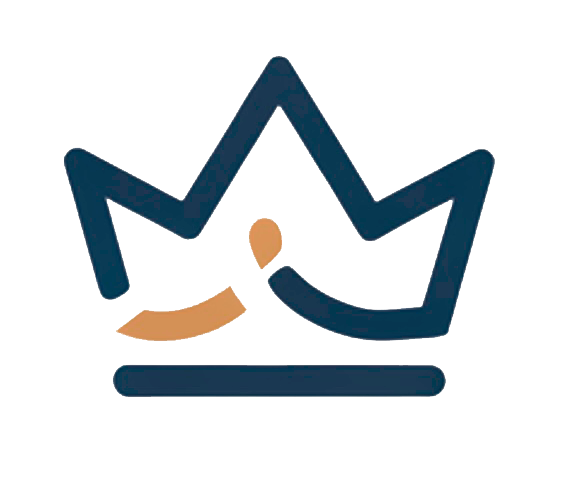
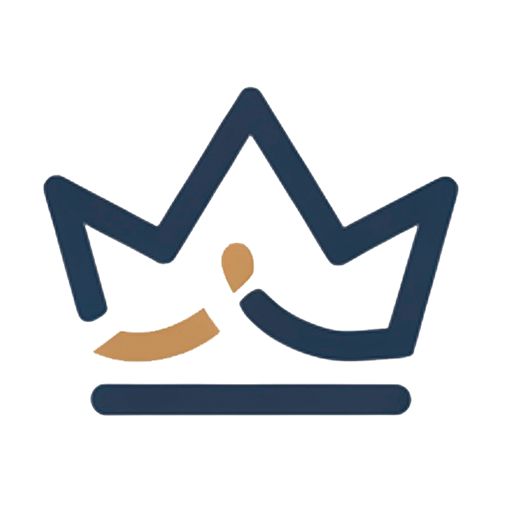
feat: actualizar isotipo cuadrado y configurar iconos iOS

diff --git a/src/app/layout.tsx b/src/app/layout.tsx
@@ -22,8 +22,15 @@ export const metadata: Metadata = {
     title: "Reyes Finance",
   },
   icons: {
-    icon: "/isotipo.png",
-    apple: "/isotipo.png",
+    icon: [
+      { url: "/isotipo.png", sizes: "192x192", type: "image/png" },
+      { url: "/isotipo.png", sizes: "512x512", type: "image/png" },
+    ],
+    apple: [
+      { url: "/isotipo.png", sizes: "180x180", type: "image/png" },
+      { url: "/isotipo.png", sizes: "152x152", type: "image/png" },
+      { url: "/isotipo.png", sizes: "120x120", type: "image/png" },
+    ],
   },
 };
 

diff --git a/src/app/manifest.ts b/src/app/manifest.ts
@@ -23,6 +23,12 @@ export default function manifest(): MetadataRoute.Manifest {
         type: "image/png",
         purpose: "any",
       },
+      {
+        src: "/isotipo.png",
+        sizes: "180x180",
+        type: "image/png",
+        purpose: "any",
+      },
     ],
   };
 }
